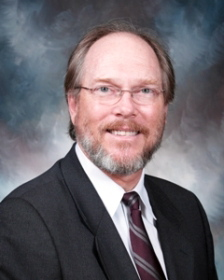
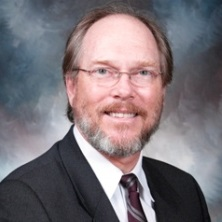
fixing coverphoto for profile

diff --git a/ConnectInSolution/ConnectIn/Content/Site.css b/ConnectInSolution/ConnectIn/Content/Site.css
@@ -523,14 +523,17 @@ button.btnNew.privacy {
     font-size: 25px;
 }
 #ProfileWell {
-    overflow: hidden;
-    max-height: 400px;
-    min-height: 200px;
-    height: auto;
+    overflow: visible;
+    height: 100%;
+    width:100%;
     margin: 50px;
     background:no-repeat;
     background-size:100%;
-    background-position:center
+    background-position: center;
+          border: 0;
+  border-radius: 0;
+  -webkit-box-shadow: inset 0 0px 0px rgba(0, 0, 0, 0);
+          box-shadow: inset 0 0px 0px rgba(0, 0, 0, 0);
 }
 #FriendsListWell{
     overflow: hidden;
@@ -936,4 +939,7 @@ a.less {
 }
 div.ellipsis-text {
     max-height: 100px;
+}
+
+#cropPhoto {
 }

diff --git a/ConnectInSolution/ConnectIn/JsLibraries/Jcrop-v0.9.12/css/jquery.Jcrop.css b/ConnectInSolution/ConnectIn/JsLibraries/Jcrop-v0.9.12/css/jquery.Jcrop.css
@@ -37,6 +37,8 @@
 .jcrop-tracker {
   height: 100%;
   width: 100%;
+    max-height: 1000px;
+    max-width: 1000px;
   /* "turn off" link highlight */
   -webkit-tap-highlight-color: transparent;
   /* disable callout, image save panel */
